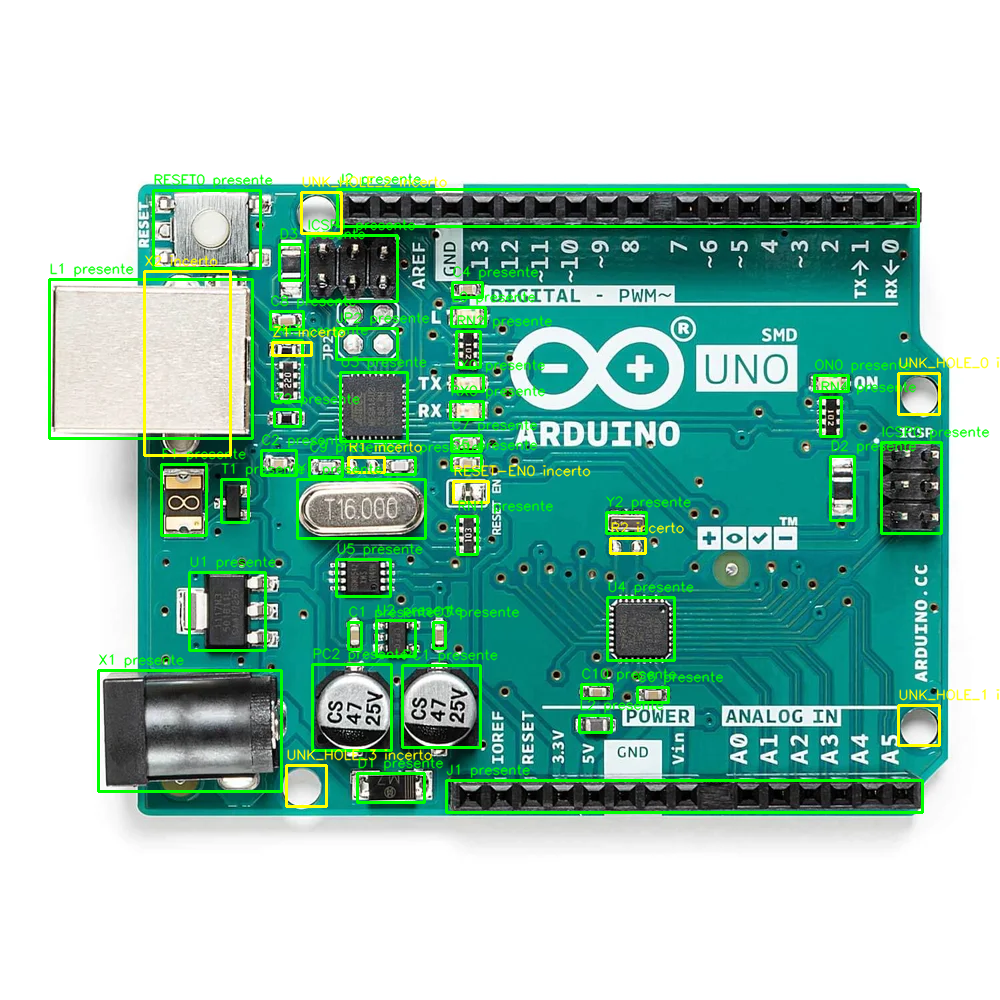
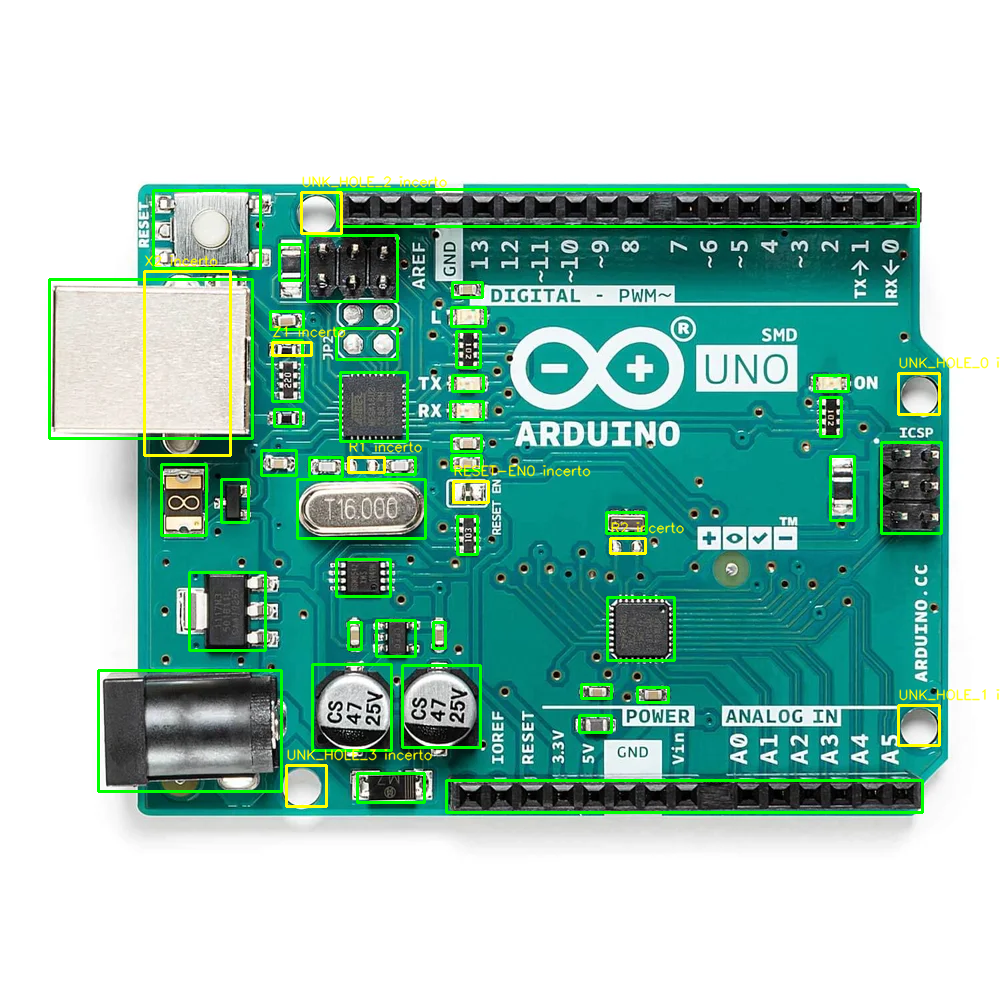
Alteracao nome

diff --git a/backend/app/draw.py b/backend/app/draw.py
@@ -146,7 +146,7 @@ def desenhar_footprint_status(img, pontos, cor, texto):
     )
 
 
-def desenhar_box_yolo_status(img, box, cor, texto):
+def desenhar_box_yolo_status(img, box, cor, texto=None):
     x1, y1, x2, y2 = map(int, box)
 
     cv2.rectangle(img, (x1, y1), (x2, y2), cor, 2)

diff --git a/backend/app/pipeline.py b/backend/app/pipeline.py
@@ -71,7 +71,7 @@ def run_overlay_referencia(
                 img_resultado,
                 validacao["yolo"]["box"],
                 (0, 255, 0),   # verde
-                texto
+                None
             )
 
         elif validacao["status"] == "incerto":
